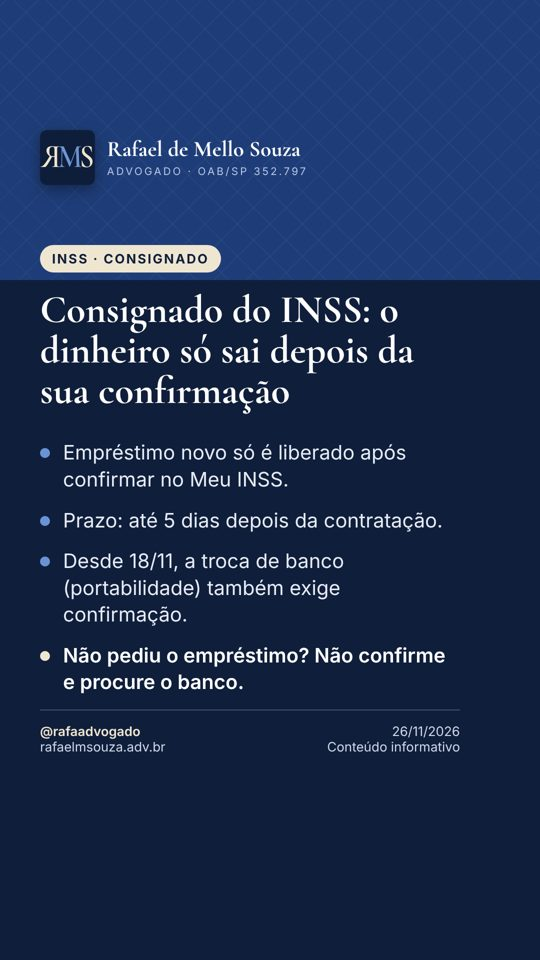
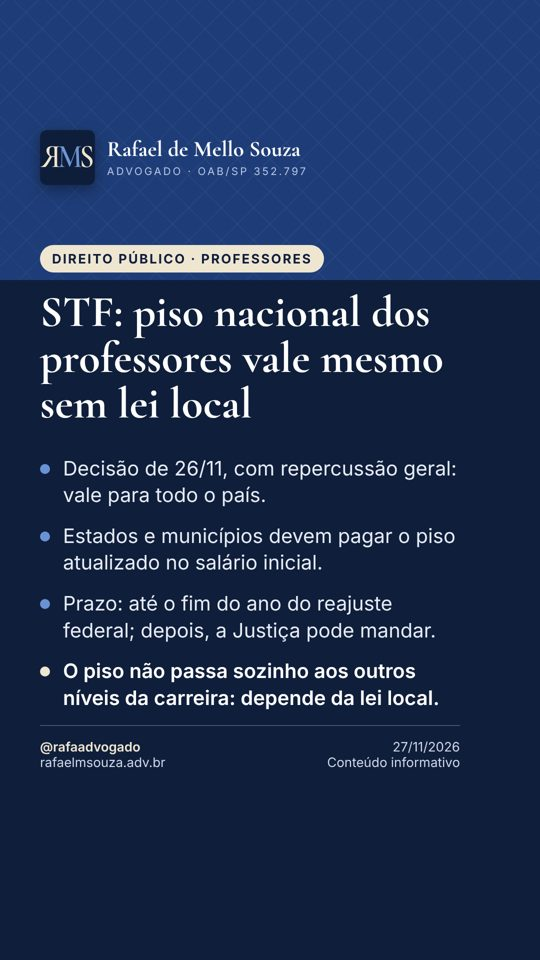
Notícia 27/11/2026: STF – piso nacional dos professores vale mesmo sem lei local
Claude-Session: https://claude.ai/code/session_01TjRXWga78bz1b3B69nQ2d7

diff --git a/noticias/index.html b/noticias/index.html
@@ -14,4 +14,4 @@ h1{font-family:Georgia,serif;color:#0f1e3a;font-size:28px;line-height:1.25;margi
 .btn.s{background:#fff;color:#0f1e3a;border:1px solid #e3dccb}.lista a{text-decoration:none}.lista div{border-top:1px solid #e3dccb;padding:14px 0}.lista div:first-child{border-top:0}.lista h2.mes{font-size:15px;text-transform:uppercase;letter-spacing:.04em;color:#8a6d2b;margin:22px 0 4px;padding-top:10px;border-top:2px solid #e3dccb}.lista h2.mes:first-child{margin-top:4px}
 footer{text-align:center;font-size:13px;color:#5d6676;padding:10px 16px 30px}</style></head><body>
 <header><a href="/"><img src="/icon.png" alt=""></a><a href="/"><div class="n">Rafael de Mello Souza</div><div class="o">ADVOGADO · OAB/SP 352.797</div></a></header>
-<nav><a href="/#inicio">Início</a><a href="/#quem-somos">Quem somos</a><a href="/noticias/">Notícias</a><a href="/#consulta">Consultar processo</a></nav><main><div class="card"><h1>Notícias</h1><p class="sub">INSS, previdência dos servidores públicos e direito público, todos os dias.</p><div class="lista"><h2 class="mes" id="2026-11">Novembro de 2026 <span class="sub">· 17 notícias</span></h2><div><span class="d">26/11/2026</span><h2><a href="/noticias/2026-11-26-consignado-inss-confirmacao-meu-inss-portabilidade.html">Consignado do INSS: empréstimo e portabilidade só valem depois da confirmação no Meu INSS</a></h2><span class="sub">Aposentados, pensionistas e quem recebe o BPC precisam confirmar no Meu INSS o empréstimo consignado contratado com o banco. Segundo o serviço oficial do gov.br, a confirmação…</span></div><div><span class="d">25/11/2026</span><h2><a href="/noticias/2026-11-25-stf-servidor-aposentado-doenca-grave-duplo-teto-adi-6336.html">Servidor aposentado com doença grave: STF mantém fim do &quot;duplo teto&quot; na contribuição</a></h2><span class="sub">O Supremo Tribunal Federal concluiu o julgamento da ADI 6.336 e, por 7 votos a 3, considerou válida a regra da Reforma da Previdência de 2019 que acabou com a chamada &quot;imunidade…</span></div><div><span class="d">24/11/2026</span><h2><a href="/noticias/2026-11-24-inss-prova-de-vida-voto-eleicoes-2026.html">Prova de vida do INSS: voto nas eleições de 2026 renovou a de 22,4 milhões</a></h2><span class="sub">Segundo dados da Dataprev divulgados em 23/11/2026, 22,4 milhões de aposentados, pensionistas e outros beneficiários do INSS tiveram a prova de vida renovada automaticamente…</span></div><div><span class="d">23/11/2026</span><h2><a href="/noticias/2026-11-23-stf-milagre-contribuicao-unica-divisor-minimo-tema-1499.html">STF vai julgar o &quot;milagre da contribuição única&quot; na aposentadoria (Tema 1.499)</a></h2><span class="sub">O Supremo Tribunal Federal reconheceu a repercussão geral do Tema 1.499 (RE 1.624.991) e vai decidir se é válido calcular a aposentadoria com base em uma única contribuição de…</span></div><div><span class="d">20/11/2026</span><h2><a href="/noticias/2026-11-20-inss-calendario-pagamento-novembro-biometria.html">Pagamento do INSS de novembro começa na terça (24); falta de biometria não bloqueia benefício</a></h2><span class="sub">A folha de novembro do INSS começa a ser paga na terça-feira, 24/11, e vai até 7/12. Para quem recebe até um salário mínimo, a data segue o último número do benefício antes do…</span></div><div><span class="d">19/11/2026</span><h2><a href="/noticias/2026-11-19-inss-exigencia-30-dias-portaria-1363.html">INSS: quem recebe exigência tem 30 dias para entregar documentos</a></h2><span class="sub">A Portaria DIRBEN/INSS nº 1.363/2026, publicada no Diário Oficial em 16/11/2026 e já em vigor, deixou claro o prazo para cumprir as exigências do INSS: quando o instituto pede um…</span></div><div><span class="d">18/11/2026</span><h2><a href="/noticias/2026-11-18-aposentadoria-regras-transicao-2027.html">Aposentadoria do INSS: duas regras de transição ficam mais exigentes em 2027</a></h2><span class="sub">Em 1º de janeiro de 2027, duas regras de transição da Reforma da Previdência sobem de patamar. Na regra dos pontos (idade + tempo de contribuição), a exigência passa de 93 para 94…</span></div><div><span class="d">17/11/2026</span><h2><a href="/noticias/2026-11-17-bpc-nao-pode-contribuir-facultativo-baixa-renda.html">Quem recebe BPC não pode pagar o INSS como baixa renda (5%)</a></h2><span class="sub">Quem recebe o BPC/LOAS pode contribuir para o INSS, mas não na modalidade de facultativo de baixa renda, com alíquota de 5%. Em 16/10/2026, a Turma Regional de Uniformização dos…</span></div><div><span class="d">16/11/2026</span><h2><a href="/noticias/2026-11-16-14-salario-inss-nao-aprovado-2026.html">14º salário do INSS: não há pagamento previsto em 2026</a></h2><span class="sub">Mensagens nas redes sociais falam em um &quot;14º salário&quot; para aposentados e pensionistas ainda neste ano, mas não existe lei que autorize esse pagamento. Há projetos sobre o tema na…</span></div><div><span class="d">13/11/2026</span><h2><a href="/noticias/2026-11-13-13-salario-proporcional-novos-beneficios-inss.html">Começou a receber do INSS depois de abril? O 13º vem na folha de novembro</a></h2><span class="sub">Quem passou a receber aposentadoria, pensão por morte, auxílio-acidente ou auxílio por incapacidade temporária a partir de maio de 2026 não entrou na antecipação do 13º feita em…</span></div><div><span class="d">12/11/2026</span><h2><a href="/noticias/2026-11-12-stf-vai-julgar-calculo-aposentadoria-pcd-tema-1497.html">STF vai julgar o cálculo da aposentadoria da pessoa com deficiência</a></h2><span class="sub">O STF reconheceu, por unanimidade, a repercussão geral do Tema 1497, que discute como deve ser calculada a aposentadoria da pessoa com deficiência depois da Reforma da…</span></div><div><span class="d">11/11/2026</span><h2><a href="/noticias/2026-11-11-inss-auxilio-doenca-negado-atestmed-reanalise-10-dias.html">Auxílio-doença negado pelo Atestmed: INSS abre reanálise em 10 dias</a></h2><span class="sub">Quem teve o auxílio por incapacidade temporária (antigo auxílio-doença) negado só pela análise de documentos do Atestmed pode pedir uma reanálise em até 10 dias, contados da…</span></div><div><span class="d">10/11/2026</span><h2><a href="/noticias/2026-11-10-stf-tema-1497-calculo-aposentadoria-pessoa-com-deficiencia.html">STF decide hoje se julgará o cálculo da aposentadoria da pessoa com deficiência</a></h2><span class="sub">Termina hoje (10/11) a votação no Plenário Virtual do STF sobre a repercussão geral do Tema 1497 (RE 1.597.638), que discute os critérios de cálculo da aposentadoria da pessoa com…</span></div><div><span class="d">10/11/2026</span><h2><a href="/noticias/2026-11-10-podcast-aposentadoria-especial-sem-idade-minima.html">Podcast: aposentadoria especial sem idade mínima após decisão do STF</a></h2><span class="sub">Novo episódio do podcast explica a decisão do STF na ADI 6309, que derrubou a idade mínima de 55, 58 e 60 anos criada pela Reforma da Previdência para a aposentadoria especial. O…</span></div><div><span class="d">10/11/2026</span><h2><a href="/noticias/2026-11-10-inss-piso-aposentadoria-2027-1741.html">INSS: piso das aposentadorias deve ir a R$ 1.741 em 2027</a></h2><span class="sub">O Orçamento de 2027 enviado pelo governo prevê salário mínimo de R$ 1.741, R$ 120 a mais que os R$ 1.621 atuais (alta de cerca de 7,4%). Aposentadorias, pensões e o BPC de um…</span></div><div><span class="d">09/11/2026</span><h2><a href="/noticias/2026-11-09-inss-biometria-bloqueio-falso.html">INSS: é falso que benefício será bloqueado sem biometria em novembro</a></h2><span class="sub">Circulam mensagens dizendo que aposentadorias e pensões serão bloqueadas em 20 de novembro por falta de biometria. O INSS informa que não existe prazo geral desse tipo: a…</span></div><div><span class="d">08/11/2026</span><h2><a href="/noticias/2026-11-08-calendario-novembro.html">INSS: pagamentos de novembro começam no dia 24</a></h2><span class="sub">Os benefícios referentes a novembro começam a ser pagos em 24/11 para quem recebe até um salário mínimo e em 1º/12 para quem recebe acima disso. Os depósitos vão até 7 de…</span></div></div></div></main><footer>Rafael de Mello Souza · Advogado · OAB/SP nº 352.797<br>© 2026 Rafael de Mello Souza – Advocacia. Todos os direitos reservados.<br>Site e sistema desenvolvidos por Rafael de Mello Souza.<br>Conteúdo informativo, não constitui consultoria jurídica. Cada caso tem particularidades. · <a href="/privacidade.html">Privacidade</a></footer></body></html>
+<nav><a href="/#inicio">Início</a><a href="/#quem-somos">Quem somos</a><a href="/noticias/">Notícias</a><a href="/#consulta">Consultar processo</a></nav><main><div class="card"><h1>Notícias</h1><p class="sub">INSS, previdência dos servidores públicos e direito público, todos os dias.</p><div class="lista"><h2 class="mes" id="2026-11">Novembro de 2026 <span class="sub">· 18 notícias</span></h2><div><span class="d">27/11/2026</span><h2><a href="/noticias/2026-11-27-stf-piso-nacional-professores-sem-lei-local.html">STF: piso nacional dos professores vale mesmo sem lei local</a></h2><span class="sub">O Plenário do Supremo Tribunal Federal decidiu nesta quinta-feira (26/11/2026) que os estados, o Distrito Federal e os municípios devem respeitar o piso salarial nacional dos…</span></div><div><span class="d">26/11/2026</span><h2><a href="/noticias/2026-11-26-consignado-inss-confirmacao-meu-inss-portabilidade.html">Consignado do INSS: empréstimo e portabilidade só valem depois da confirmação no Meu INSS</a></h2><span class="sub">Aposentados, pensionistas e quem recebe o BPC precisam confirmar no Meu INSS o empréstimo consignado contratado com o banco. Segundo o serviço oficial do gov.br, a confirmação…</span></div><div><span class="d">25/11/2026</span><h2><a href="/noticias/2026-11-25-stf-servidor-aposentado-doenca-grave-duplo-teto-adi-6336.html">Servidor aposentado com doença grave: STF mantém fim do &quot;duplo teto&quot; na contribuição</a></h2><span class="sub">O Supremo Tribunal Federal concluiu o julgamento da ADI 6.336 e, por 7 votos a 3, considerou válida a regra da Reforma da Previdência de 2019 que acabou com a chamada &quot;imunidade…</span></div><div><span class="d">24/11/2026</span><h2><a href="/noticias/2026-11-24-inss-prova-de-vida-voto-eleicoes-2026.html">Prova de vida do INSS: voto nas eleições de 2026 renovou a de 22,4 milhões</a></h2><span class="sub">Segundo dados da Dataprev divulgados em 23/11/2026, 22,4 milhões de aposentados, pensionistas e outros beneficiários do INSS tiveram a prova de vida renovada automaticamente…</span></div><div><span class="d">23/11/2026</span><h2><a href="/noticias/2026-11-23-stf-milagre-contribuicao-unica-divisor-minimo-tema-1499.html">STF vai julgar o &quot;milagre da contribuição única&quot; na aposentadoria (Tema 1.499)</a></h2><span class="sub">O Supremo Tribunal Federal reconheceu a repercussão geral do Tema 1.499 (RE 1.624.991) e vai decidir se é válido calcular a aposentadoria com base em uma única contribuição de…</span></div><div><span class="d">20/11/2026</span><h2><a href="/noticias/2026-11-20-inss-calendario-pagamento-novembro-biometria.html">Pagamento do INSS de novembro começa na terça (24); falta de biometria não bloqueia benefício</a></h2><span class="sub">A folha de novembro do INSS começa a ser paga na terça-feira, 24/11, e vai até 7/12. Para quem recebe até um salário mínimo, a data segue o último número do benefício antes do…</span></div><div><span class="d">19/11/2026</span><h2><a href="/noticias/2026-11-19-inss-exigencia-30-dias-portaria-1363.html">INSS: quem recebe exigência tem 30 dias para entregar documentos</a></h2><span class="sub">A Portaria DIRBEN/INSS nº 1.363/2026, publicada no Diário Oficial em 16/11/2026 e já em vigor, deixou claro o prazo para cumprir as exigências do INSS: quando o instituto pede um…</span></div><div><span class="d">18/11/2026</span><h2><a href="/noticias/2026-11-18-aposentadoria-regras-transicao-2027.html">Aposentadoria do INSS: duas regras de transição ficam mais exigentes em 2027</a></h2><span class="sub">Em 1º de janeiro de 2027, duas regras de transição da Reforma da Previdência sobem de patamar. Na regra dos pontos (idade + tempo de contribuição), a exigência passa de 93 para 94…</span></div><div><span class="d">17/11/2026</span><h2><a href="/noticias/2026-11-17-bpc-nao-pode-contribuir-facultativo-baixa-renda.html">Quem recebe BPC não pode pagar o INSS como baixa renda (5%)</a></h2><span class="sub">Quem recebe o BPC/LOAS pode contribuir para o INSS, mas não na modalidade de facultativo de baixa renda, com alíquota de 5%. Em 16/10/2026, a Turma Regional de Uniformização dos…</span></div><div><span class="d">16/11/2026</span><h2><a href="/noticias/2026-11-16-14-salario-inss-nao-aprovado-2026.html">14º salário do INSS: não há pagamento previsto em 2026</a></h2><span class="sub">Mensagens nas redes sociais falam em um &quot;14º salário&quot; para aposentados e pensionistas ainda neste ano, mas não existe lei que autorize esse pagamento. Há projetos sobre o tema na…</span></div><div><span class="d">13/11/2026</span><h2><a href="/noticias/2026-11-13-13-salario-proporcional-novos-beneficios-inss.html">Começou a receber do INSS depois de abril? O 13º vem na folha de novembro</a></h2><span class="sub">Quem passou a receber aposentadoria, pensão por morte, auxílio-acidente ou auxílio por incapacidade temporária a partir de maio de 2026 não entrou na antecipação do 13º feita em…</span></div><div><span class="d">12/11/2026</span><h2><a href="/noticias/2026-11-12-stf-vai-julgar-calculo-aposentadoria-pcd-tema-1497.html">STF vai julgar o cálculo da aposentadoria da pessoa com deficiência</a></h2><span class="sub">O STF reconheceu, por unanimidade, a repercussão geral do Tema 1497, que discute como deve ser calculada a aposentadoria da pessoa com deficiência depois da Reforma da…</span></div><div><span class="d">11/11/2026</span><h2><a href="/noticias/2026-11-11-inss-auxilio-doenca-negado-atestmed-reanalise-10-dias.html">Auxílio-doença negado pelo Atestmed: INSS abre reanálise em 10 dias</a></h2><span class="sub">Quem teve o auxílio por incapacidade temporária (antigo auxílio-doença) negado só pela análise de documentos do Atestmed pode pedir uma reanálise em até 10 dias, contados da…</span></div><div><span class="d">10/11/2026</span><h2><a href="/noticias/2026-11-10-stf-tema-1497-calculo-aposentadoria-pessoa-com-deficiencia.html">STF decide hoje se julgará o cálculo da aposentadoria da pessoa com deficiência</a></h2><span class="sub">Termina hoje (10/11) a votação no Plenário Virtual do STF sobre a repercussão geral do Tema 1497 (RE 1.597.638), que discute os critérios de cálculo da aposentadoria da pessoa com…</span></div><div><span class="d">10/11/2026</span><h2><a href="/noticias/2026-11-10-podcast-aposentadoria-especial-sem-idade-minima.html">Podcast: aposentadoria especial sem idade mínima após decisão do STF</a></h2><span class="sub">Novo episódio do podcast explica a decisão do STF na ADI 6309, que derrubou a idade mínima de 55, 58 e 60 anos criada pela Reforma da Previdência para a aposentadoria especial. O…</span></div><div><span class="d">10/11/2026</span><h2><a href="/noticias/2026-11-10-inss-piso-aposentadoria-2027-1741.html">INSS: piso das aposentadorias deve ir a R$ 1.741 em 2027</a></h2><span class="sub">O Orçamento de 2027 enviado pelo governo prevê salário mínimo de R$ 1.741, R$ 120 a mais que os R$ 1.621 atuais (alta de cerca de 7,4%). Aposentadorias, pensões e o BPC de um…</span></div><div><span class="d">09/11/2026</span><h2><a href="/noticias/2026-11-09-inss-biometria-bloqueio-falso.html">INSS: é falso que benefício será bloqueado sem biometria em novembro</a></h2><span class="sub">Circulam mensagens dizendo que aposentadorias e pensões serão bloqueadas em 20 de novembro por falta de biometria. O INSS informa que não existe prazo geral desse tipo: a…</span></div><div><span class="d">08/11/2026</span><h2><a href="/noticias/2026-11-08-calendario-novembro.html">INSS: pagamentos de novembro começam no dia 24</a></h2><span class="sub">Os benefícios referentes a novembro começam a ser pagos em 24/11 para quem recebe até um salário mínimo e em 1º/12 para quem recebe acima disso. Os depósitos vão até 7 de…</span></div></div></div></main><footer>Rafael de Mello Souza · Advogado · OAB/SP nº 352.797<br>© 2026 Rafael de Mello Souza – Advocacia. Todos os direitos reservados.<br>Site e sistema desenvolvidos por Rafael de Mello Souza.<br>Conteúdo informativo, não constitui consultoria jurídica. Cada caso tem particularidades. · <a href="/privacidade.html">Privacidade</a></footer></body></html>

diff --git a/noticias/2026-11-27-stf-piso-nacional-professores-sem-lei-local.html b/noticias/2026-11-27-stf-piso-nacional-professores-sem-lei-local.html
@@ -1,0 +1,19 @@
+<!DOCTYPE html><html lang="pt-BR"><head><meta charset="utf-8">
+<meta name="viewport" content="width=device-width, initial-scale=1">
+<title>STF: piso nacional dos professores vale mesmo sem lei local | Rafael de Mello Souza – Advogado</title><meta name="description" content="O Plenário do Supremo Tribunal Federal decidiu nesta quinta-feira (26/11/2026) que os estados, o Distrito Federal e os municípios devem respeitar o piso…"><link rel="canonical" href="https://rafaelmsouza.adv.br/noticias/2026-11-27-stf-piso-nacional-professores-sem-lei-local.html">
+<meta property="og:type" content="article"><meta property="og:title" content="STF: piso nacional dos professores vale mesmo sem lei local | Rafael de Mello Souza – Advogado"><meta property="og:description" content="O Plenário do Supremo Tribunal Federal decidiu nesta quinta-feira (26/11/2026) que os estados, o Distrito Federal e os municípios devem respeitar o piso…"><meta property="og:url" content="https://rafaelmsouza.adv.br/noticias/2026-11-27-stf-piso-nacional-professores-sem-lei-local.html"><meta property="og:image" content="https://rafaelmsouza.adv.br/cartao.jpg"><meta property="og:locale" content="pt_BR">
+<link rel="icon" href="/icon.png"><meta name="theme-color" content="#0f1e3a">
+<script defer src="https://cloud.umami.is/script.js" data-website-id="e1ed7d73-fa33-4e80-996a-a7cae57abea0"></script><script type="application/ld+json">{"@context": "https://schema.org", "@type": "NewsArticle", "headline": "STF: piso nacional dos professores vale mesmo sem lei local", "description": "O Plenário do Supremo Tribunal Federal decidiu nesta quinta-feira (26/11/2026) que os estados, o Distrito Federal e os municípios devem respeitar o piso…", "datePublished": "2026-11-27", "dateModified": "2026-11-27", "inLanguage": "pt-BR", "mainEntityOfPage": "https://rafaelmsouza.adv.br/noticias/2026-11-27-stf-piso-nacional-professores-sem-lei-local.html", "image": ["https://rafaelmsouza.adv.br/cartao.jpg"], "author": {"@type": "Person", "name": "Rafael de Mello Souza", "jobTitle": "Advogado", "url": "https://rafaelmsouza.adv.br"}, "publisher": {"@type": "Organization", "name": "Rafael de Mello Souza – Advocacia", "logo": {"@type": "ImageObject", "url": "https://rafaelmsouza.adv.br/icon.png"}}}</script>
+<style>*{box-sizing:border-box}body{margin:0;background:#f7f3ea;color:#1b2333;font:17px/1.6 -apple-system,BlinkMacSystemFont,"Segoe UI",Roboto,Helvetica,Arial,sans-serif}
+a{color:#1e3d78}header{background:#0f1e3a;color:#efe6d2;padding:16px 20px;display:flex;align-items:center;gap:14px}
+header img{width:44px;height:44px;border-radius:8px}header a{color:inherit;text-decoration:none}.n{font-family:Georgia,serif;font-size:19px}.o{font-size:12px;letter-spacing:2px;color:#b9c6e4}
+nav{background:#1e3d78;display:flex;overflow-x:auto;padding:0 8px}nav a{color:#dfe7f6;text-decoration:none;padding:11px 12px;font-size:15px;white-space:nowrap}
+main{max-width:720px;margin:0 auto;padding:22px 16px 110px}article,.card{background:#fff;border:1px solid #e3dccb;border-radius:16px;padding:22px}
+h1{font-family:Georgia,serif;color:#0f1e3a;font-size:28px;line-height:1.25;margin:4px 0 10px}h2{font-family:Georgia,serif;color:#0f1e3a;font-size:20px;margin:0 0 4px}
+.d{color:#5d6676;font-size:14px;font-weight:600}.sub{color:#5d6676;font-size:14px}.btn{display:inline-block;background:#1f9d55;color:#fff;text-decoration:none;font-weight:700;padding:12px 18px;border-radius:10px;margin:10px 8px 0 0}
+.btn.s{background:#fff;color:#0f1e3a;border:1px solid #e3dccb}.lista a{text-decoration:none}.lista div{border-top:1px solid #e3dccb;padding:14px 0}.lista div:first-child{border-top:0}.lista h2.mes{font-size:15px;text-transform:uppercase;letter-spacing:.04em;color:#8a6d2b;margin:22px 0 4px;padding-top:10px;border-top:2px solid #e3dccb}.lista h2.mes:first-child{margin-top:4px}
+footer{text-align:center;font-size:13px;color:#5d6676;padding:10px 16px 30px}</style></head><body>
+<header><a href="/"><img src="/icon.png" alt=""></a><a href="/"><div class="n">Rafael de Mello Souza</div><div class="o">ADVOGADO · OAB/SP 352.797</div></a></header>
+<nav><a href="/#inicio">Início</a><a href="/#quem-somos">Quem somos</a><a href="/noticias/">Notícias</a><a href="/#consulta">Consultar processo</a></nav><main>
+<article><div class="d">27/11/2026 · Notícias</div><h1>STF: piso nacional dos professores vale mesmo sem lei local</h1><p>O Plenário do Supremo Tribunal Federal decidiu nesta quinta-feira (26/11/2026) que os estados, o Distrito Federal e os municípios devem respeitar o piso salarial nacional dos professores da educação básica pública, ainda que não exista lei local tratando do assunto. Como o julgamento foi feito com repercussão geral (Temas 1.324 e 1.218), o entendimento deve ser seguido pelos demais tribunais do país.</p><p>Segundo o STF, cada ente tem até o fim do ano em que for publicada a atualização federal do piso para ajustar o salário inicial da carreira. Se isso não acontecer, a Justiça pode determinar o ajuste. Os dois casos analisados vieram de São Paulo: uma professora do município de Riolândia que recebia abaixo do piso e uma professora aposentada da rede estadual paulista.</p><p>O Tribunal também definiu um limite importante: o piso vale para o vencimento inicial e não se espalha automaticamente para os outros níveis, classes e referências da carreira. Esse reflexo só existe quando a lei do próprio estado ou município prevê. Na prática, cada professor precisa conferir o que diz o plano de carreira da sua rede. A notícia oficial não trata de valores atrasados nem de eventual limitação de efeitos, pontos que dependem da publicação do acórdão.</p><p class="sub">Fonte: <a href="https://noticias.stf.jus.br/postsnoticias/estados-e-municipios-devem-observar-piso-salarial-nacional-de-professores-da-educacao-basica-decide-stf/" target="_blank" rel="noopener nofollow" data-umami-event="noticia-fonte">STF – Notícias (26/11/2026)</a></p>
+<a class="btn" href="https://wa.me/5514996119228?text=Ol%C3%A1%2C%20Dr.%20Rafael%21%20Li%20a%20not%C3%ADcia%20%22STF%3A%20piso%20nacional%20dos%20professores%20vale%20mesmo%20sem%20lei%20local%22%20no%20seu%20site%20e%20tenho%20uma%20d%C3%BAvida." target="_blank" rel="noopener" data-umami-event="whatsapp">💬 Tirar dúvida no WhatsApp</a><a class="btn s" href="/noticias/">Ver todas as notícias</a></article></main><footer>Rafael de Mello Souza · Advogado · OAB/SP nº 352.797<br>© 2026 Rafael de Mello Souza – Advocacia. Todos os direitos reservados.<br>Site e sistema desenvolvidos por Rafael de Mello Souza.<br>Conteúdo informativo, não constitui consultoria jurídica. Cada caso tem particularidades. · <a href="/privacidade.html">Privacidade</a></footer></body></html>
